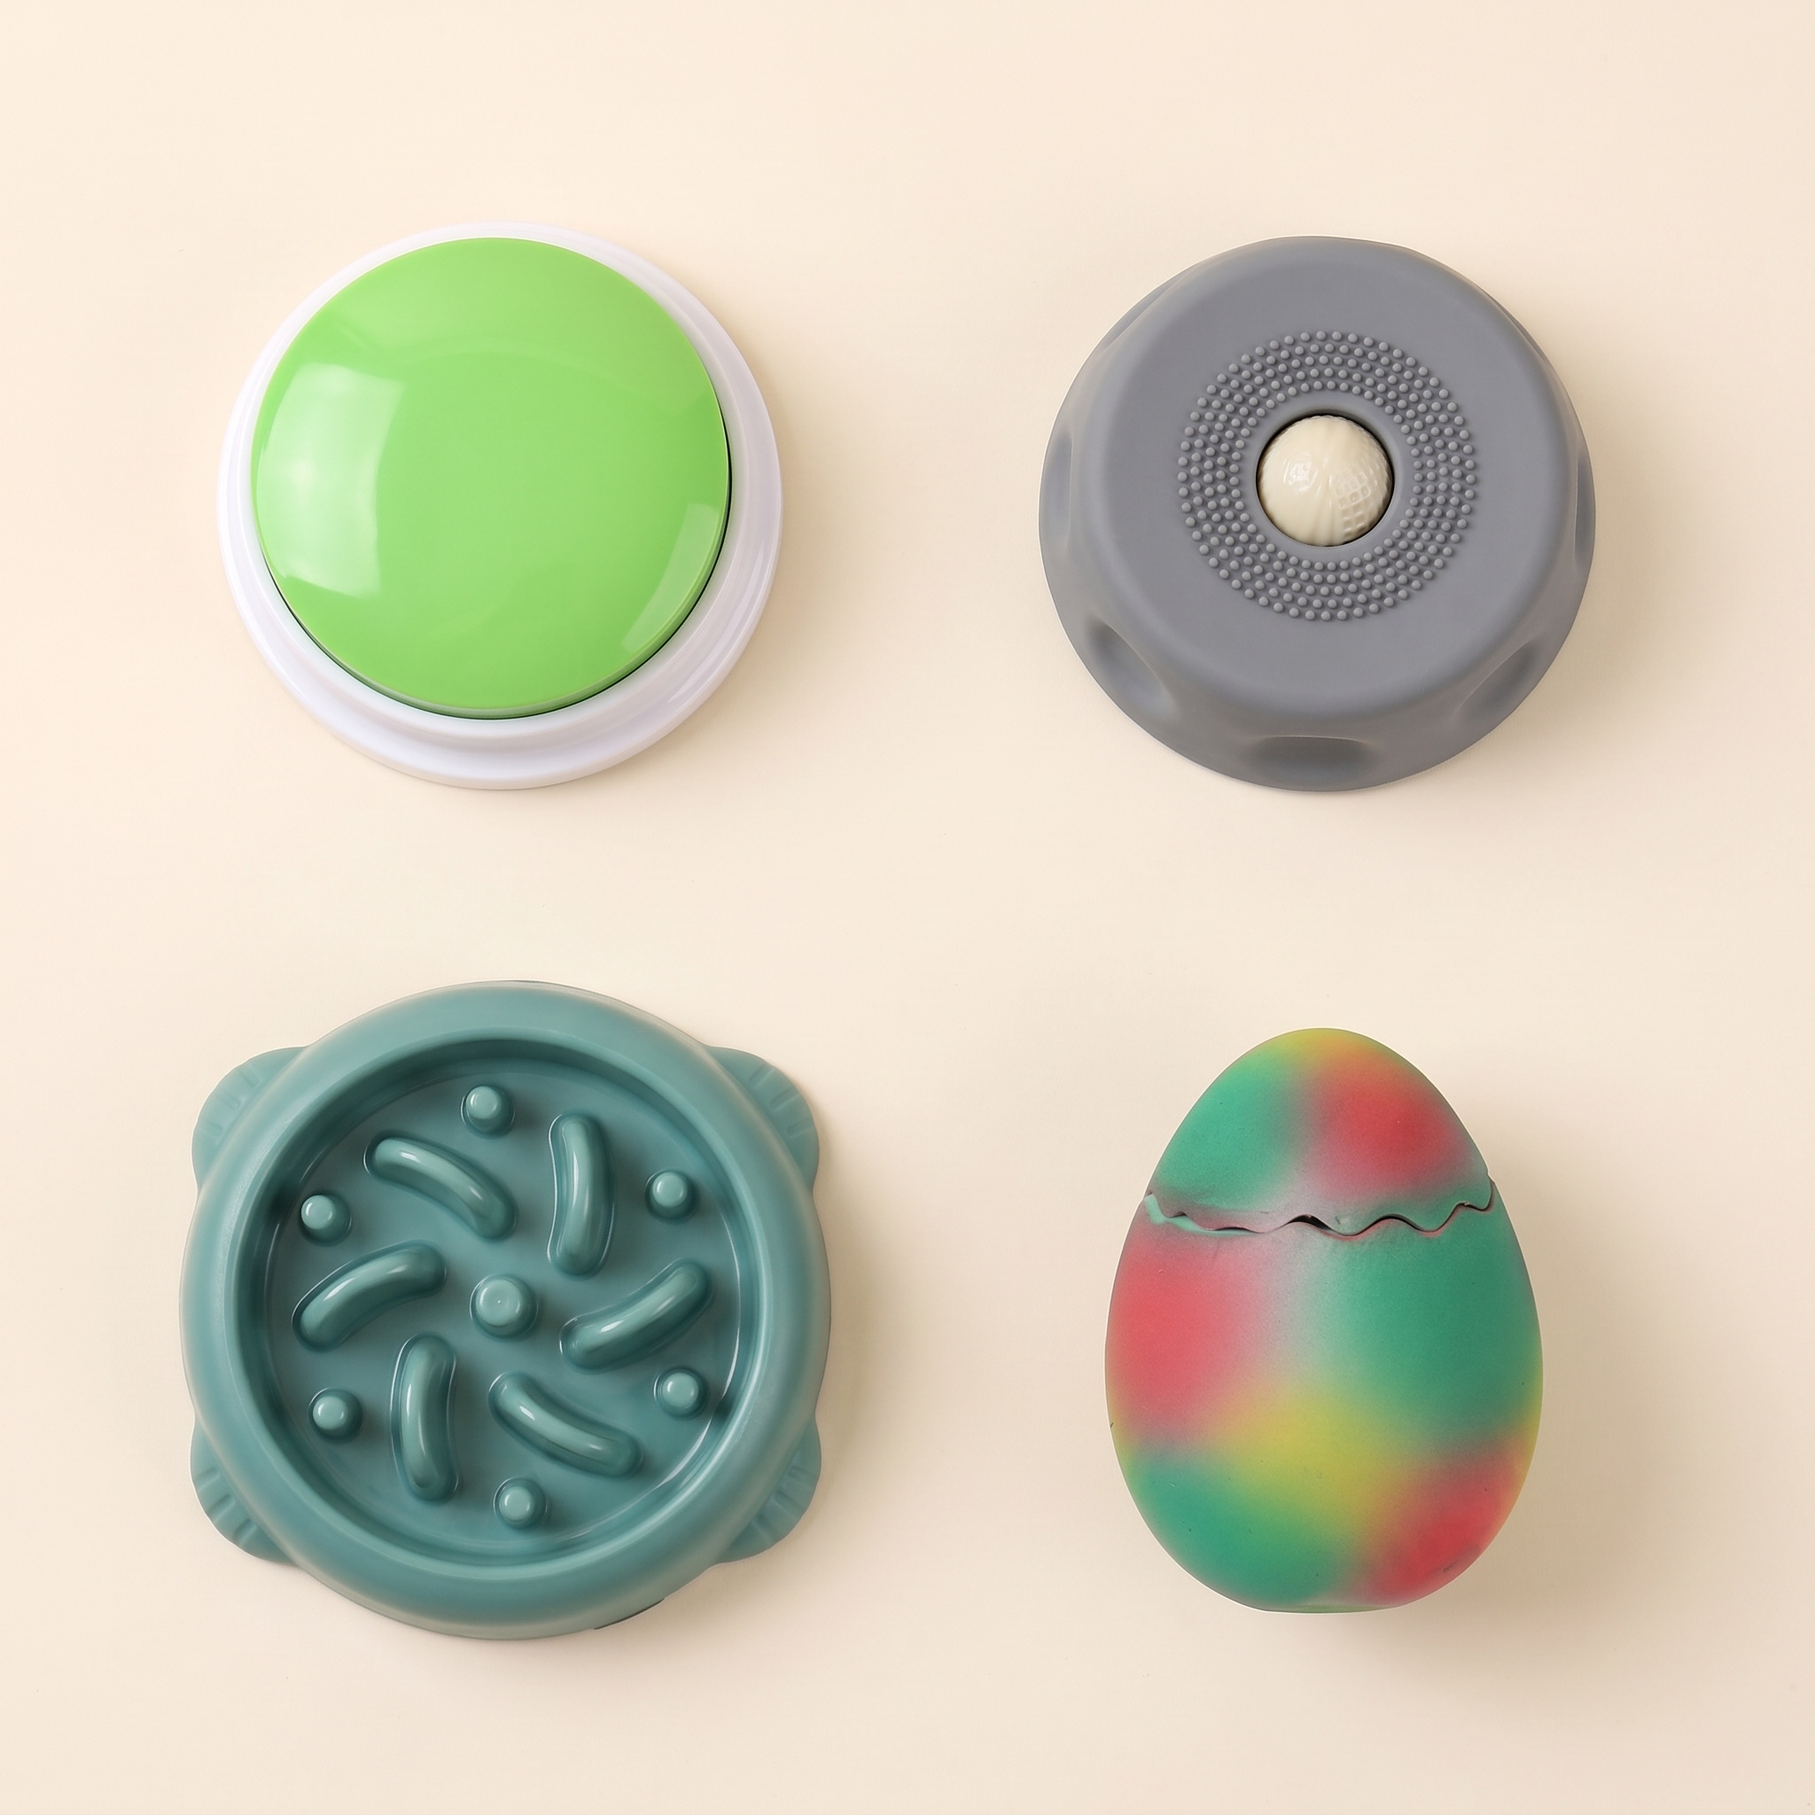
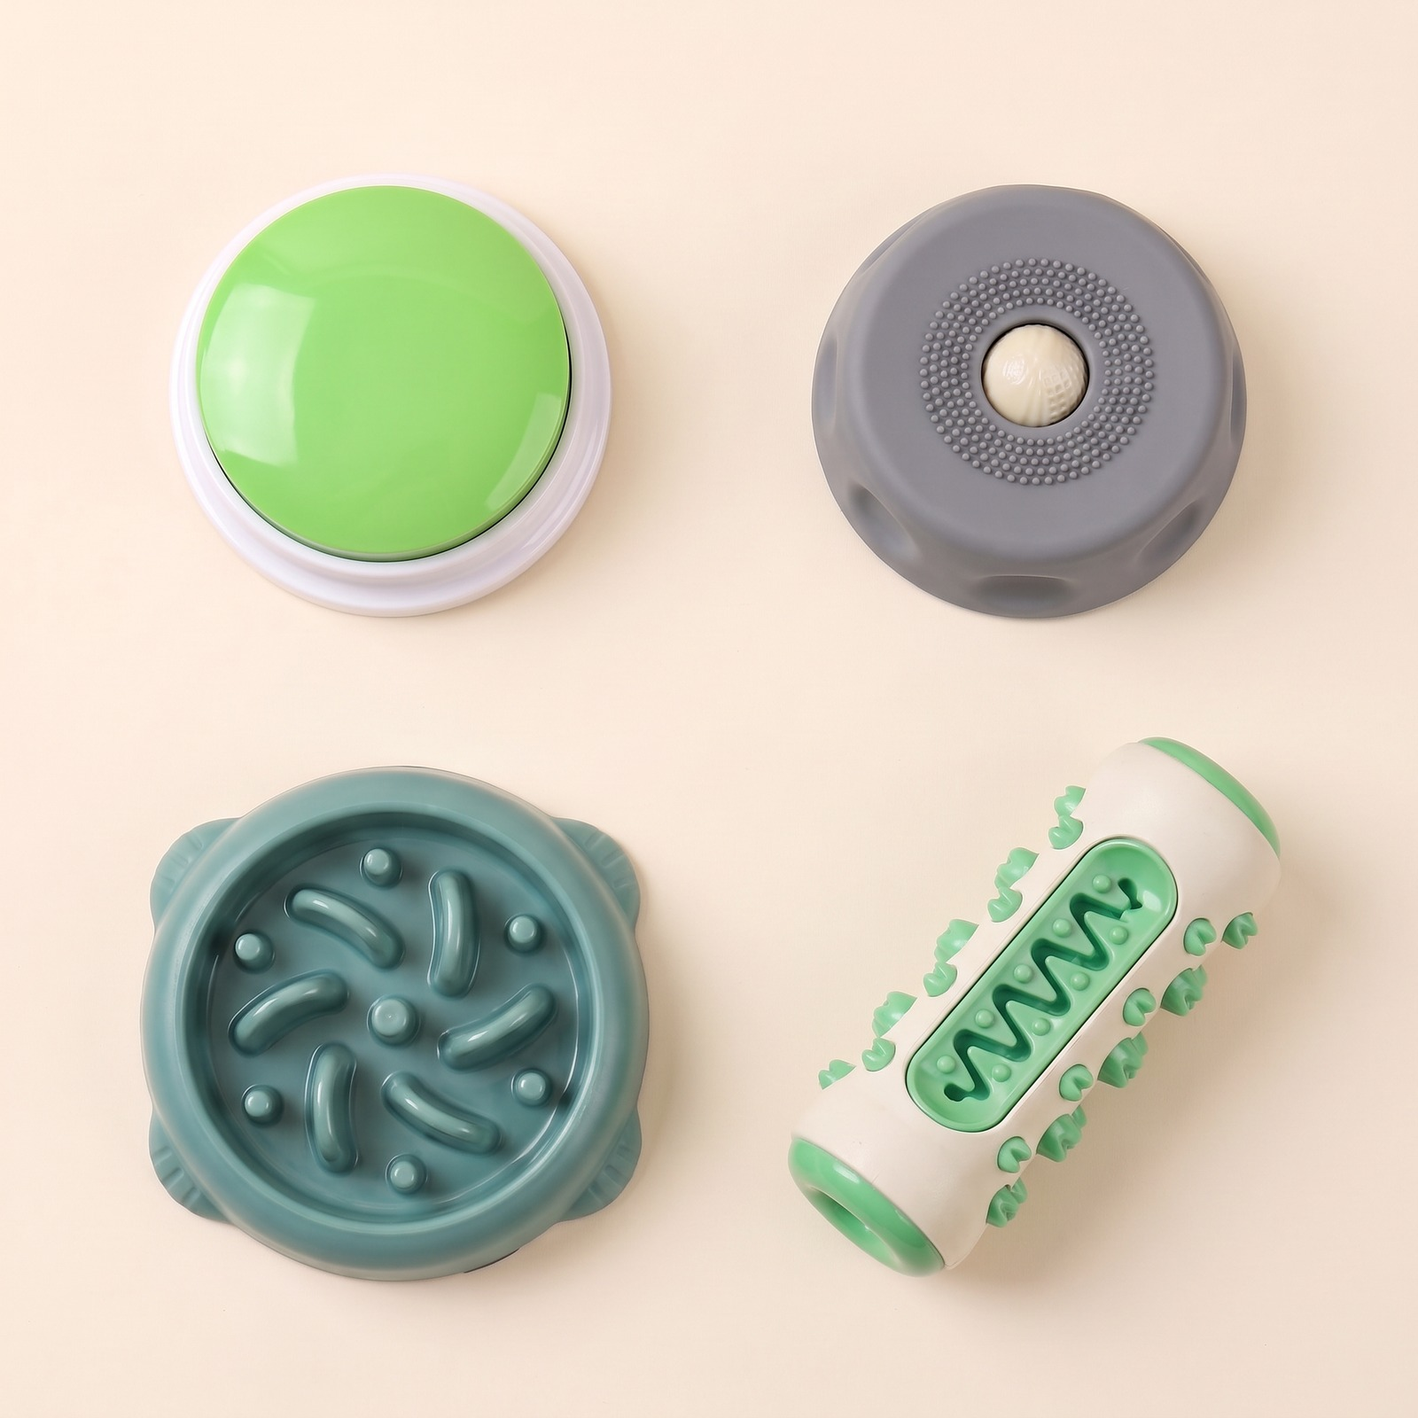
Reshoot both kits' art, and stop three audits asserting the old composition
The Toy Kit page still showed the Watermelon Rope Frisbee and the Enrichment Kit
still showed the Bouncy Egg Squeaker, in the flatlay cover, the component still
and all three colorway covers each. Eight images regenerated from the components'
own CJ photos as tagged references and eyeballed one by one against them before
upload. All 39 kit variants stay wired to their colorway cover.

product.bundleComponents is STALE after a rebuild: 50 minutes on it still named
both removed items while variant.productVariantComponents had switched. That
made audit_kits.py report the two kits that HAD been fixed as broken, and its
--apply would have written their contents metafields back to the old
composition. audit_kits.py, verify_kit_callout.py and link_kits_multi.py all
read the variant level now.

Two image traps, both hit rather than theorised. These scripts are idempotent by
FILENAME, so reshot art under an unchanged name is silently skipped and the old
image has to be deleted first. Doing that promotes a component still into
position 1, and apply_kit_covers.py replaced position 1 unconditionally: it
destroyed the Slow Feeder Bowl and Barnyard Squeaker stills. Both restored from
the component products, and the cover is now located by its alt text so the same
delete-then-apply sequence is safe.

audit_cj_shippability.py hardened after a near miss. One run returned empty rows
for seven SKUs at once, among them live kit components, and called them
[…]

Changed region(s): [[0.5312, 0.5, 0.9688, 0.9375]]

diff --git a/config/audit_kits.py b/config/audit_kits.py
@@ -14,7 +14,16 @@ because every automated check that looks at the bundle passes.
 There are FOUR independent descriptions of what is in a kit, and they can drift
 apart one at a time:
 
-  1. `bundleComponents`        the truth. What the customer is actually sold.
+  1. the variant components    the truth. What the customer is actually sold.
+                               Read from `variant.productVariantComponents`, NOT
+                               from `product.bundleComponents`. The product-level
+                               field does not track a composition change: 50
+                               minutes after the 2026-08-17 rebuild it still
+                               named the Watermelon Rope Frisbee and the Bouncy
+                               Egg Squeaker, so this audit reported the two kits
+                               that HAD been fixed as broken and would have
+                               "repaired" their metafields back to the old
+                               contents.
   2. `wagvive.components`      metafield driving the on-page contents section.
   3. the product images        cover grid plus one gallery shot per component.
   4. `bodyHtml`                the prose description naming each item.
@@ -77,11 +86,11 @@ query($q: String!) {
   products(first: 20, query: $q) {
     nodes {
       id title handle bodyHtml
-      variants(first: 100) { nodes { price compareAtPrice } }
+      variants(first: 100) { nodes { price compareAtPrice
+        productVariantComponents(first: 12) {
+          nodes { productVariant { product { id title status } } } } } }
       media(first: 30) { nodes { ... on MediaImage { alt } } }
       metafields(first: 25) { nodes { namespace key type value } }
-      bundleComponents(first: 12) {
-        nodes { componentProduct { id title status } } }
     }
   }
 }'''
@@ -104,6 +113,23 @@ mutation($mf: [MetafieldsSetInput!]!) {
 }'''
 
 
+def components_of(kit):
+    """Distinct component products of a kit, in first-seen order.
+
+    Walks every variant because that is where a bundle's composition actually
+    lives. Different colorways point at different VARIANTS of the same component
+    product, so de-duplicating by product id gives the set the kit is built from.
+    """
+    seen, out = set(), []
+    for v in kit['variants']['nodes']:
+        for c in v['productVariantComponents']['nodes']:
+            p = c['productVariant']['product']
+            if p['id'] not in seen:
+                seen.add(p['id'])
+                out.append(p)
+    return out
+
+
 def short(t):
     return t.replace('Wagvive ', '')
 
@@ -119,7 +145,7 @@ def main():
 
     for k in kits:
         title = k['title']
-        comps = [c['componentProduct'] for c in k['bundleComponents']['nodes']]
+        comps = components_of(k)
         comp_ids = [c['id'] for c in comps]
         comp_names = [short(c['title']) for c in comps]
         print(f"\n=== {title} ===")
@@ -274,8 +300,7 @@ def main():
                     )['data']['products']['nodes']
         bad = 0
         for k in fresh:
-            comp_ids = [c['componentProduct']['id']
-                        for c in k['bundleComponents']['nodes']]
+            comp_ids = [c['id'] for c in components_of(k)]
             mf = next((m for m in k['metafields']['nodes']
                        if m['namespace'] == 'wagvive'
                        and m['key'] == 'components'), None)

diff --git a/config/apply_kit_covers.py b/config/apply_kit_covers.py
@@ -18,9 +18,14 @@ The grid generator stays in the repo and stays correct: it is still the fallback
 for a newly built kit that has no art yet, and it is what regenerates a cover when
 a kit's composition changes before anyone has time to shoot a new flat-lay.
 
-Only the cover (position 1) is replaced. The per-component gallery shots below it
+Only the cover is replaced, and it is found by its ALT (`<title> - everything
+included`), never by being position 1. The per-component gallery shots below it
 are left exactly as they are, because those are what `audit_kits.py` reads to
-prove the gallery still matches the bundle.
+prove the gallery still matches the bundle. Trusting position 1 destroyed the
+Slow Feeder Bowl and Barnyard Squeaker stills on 2026-08-17: reshooting a cover
+means deleting the old one first (these scripts are idempotent by filename, so
+an unchanged name is otherwise skipped), which promotes a component still into
+position 1 for exactly as long as it takes this script to overwrite it.
 
     python config/apply_kit_covers.py            # report what would change
     python config/apply_kit_covers.py --apply
@@ -159,19 +164,26 @@ def main():
         k = kits.get(handle)
         if not k:
             continue
-        old = k['images'][0] if k['images'] else None
+        # The old cover is identified by ALT, not by being position 1. Taking
+        # whatever sits at position 1 destroyed two component stills on
+        # 2026-08-17: the previous cover had been deleted so the reshoot would
+        # re-upload, which promoted a component still into position 1, and this
+        # then consumed it. When no image carries the cover alt there is nothing
+        # to replace and the new cover is simply inserted.
+        alt = f"{k['title']} - everything included"
+        old = next((i for i in k['images'] if (i.get('alt') or '') == alt), None)
         blob, note = prep(path)
         print(f"\n{k['title']}")
         print(f"   {note}, {len(blob)//1024} KB")
         print(f"   gallery now: {len(k['images'])} image(s), "
-              f"replacing #{old['id'] if old else '(none)'}")
+              + (f"replacing #{old['id']}" if old
+                 else 'no existing cover, inserting'))
         if not apply:
             continue
 
         # Upload FIRST, delete the old cover second. The reverse order leaves a
         # kit with no cover at all if the upload fails, and a blank product card
         # is worse than a dated one.
-        alt = f"{k['title']} - everything included"
         new = api('POST', f"products/{k['id']}/images.json", {'image': {
             'attachment': base64.b64encode(blob).decode(),
             'filename': f'kit-flatlay-{handle}.jpg',
@@ -181,8 +193,10 @@ def main():
 
         fresh = api('GET', f"products/{k['id']}.json")['product']
         first = fresh['images'][0]
+        # Gallery size holds steady on a replace and grows by one on an insert.
+        want_n = len(k['images']) + (0 if old else 1)
         ok = (first['id'] == new['id']
-              and len(fresh['images']) == len(k['images'])
+              and len(fresh['images']) == want_n
               and (first.get('alt') or '') == alt)
         print(f"   {'OK ' if ok else 'BAD'} cover={first['id']} "
               f"gallery={len(fresh['images'])} alt={first.get('alt')!r}")

diff --git a/config/audit_cj_shippability.py b/config/audit_cj_shippability.py
@@ -55,6 +55,30 @@ def api(path):
     return out
 
 
+def stock_rows(sku, tries=3):
+    """CJ's rows for a SKU, retried, because an empty answer is usually a lie.
+
+    A single empty/failed response is NOT evidence that CJ cannot ship. On
+    2026-08-17 one run came back empty for seven SKUs at once, including live kit
+    components that had synced real quantities minutes earlier; all seven
+    returned a populated stock record on every retry. Acting on that would have
+    zeroed good stock and taken two kits offline, which is the opposite of what
+    this audit is for.
+
+    Returns (rows, ok). `ok` is False when every attempt failed or came back
+    empty, and the caller reports UNKNOWN rather than accusing the SKU.
+    """
+    for attempt in range(tries):
+        try:
+            rows = cj_api.call('/product/stock/queryBySku', {'sku': sku}).get('data')
+            if isinstance(rows, list) and rows:
+                return rows, True
+        except Exception:
+            pass
+        time.sleep(1.5 * (attempt + 1))
+    return [], False
+
+
 def classify(rows):
     """(shippable_qty, factory_qty, cj_on_hand, verdict) for one SKU's rows."""
     if not isinstance(rows, list) or not rows:
@@ -91,9 +115,10 @@ def main():
             if not sku:
                 continue
             checked += 1
-            rows = cj_api.call('/product/stock/queryBySku',
-                               {'sku': sku}).get('data')
+            rows, reachable = stock_rows(sku)
             ship, factory, hand, verdict = classify(rows)
+            if not reachable:
+                verdict = 'UNKNOWN (CJ did not answer)'
             shopify_qty = v['inventory_quantity']
             entry = {'product': p['title'], 'variant': v['title'], 'sku': sku,
                      'shopify': shopify_qty, 'shippable': ship,
@@ -127,6 +152,16 @@ def main():
     # unshippable SKU regardless of its Shopify quantity would mean this audit
     # could never go green while those products exist, and an audit that always
     # fails is one that stops being read.
+    # An UNKNOWN is a gap in evidence, not a finding. It is surfaced so the run
+    # is not silently partial, but it never zeroes anything.
+    unknown = [e for e in bad if e['verdict'].startswith('UNKNOWN')]
+    bad = [e for e in bad if not e['verdict'].startswith('UNKNOWN')]
+    if unknown:
+        print(f'\n{len(unknown)} variant(s) CJ would not answer for after '
+              f'retries. Not treated as unshippable:')
+        for e in unknown:
+            print(f"  ? {e['product']} / {e['variant']}  {e['sku']}")
+
     exposed = [e for e in bad if e['shopify'] > 0]
     contained = [e for e in bad if e['shopify'] <= 0]
 

diff --git a/docs/HANDOFF.md b/docs/HANDOFF.md
@@ -4,7 +4,7 @@
 > (plus commits and pushes) before the user switches devices or ends a work
 > session. This file IS the conversation continuity between devices.
 
-**Last updated:** 2026-08-08, home PC (colorway covers finished; wipes replacement launched; CJ pairing still open)
+**Last updated:** 2026-08-17, home PC (order #1002 root-caused: CJ's advertised stock is not shippable stock; Toy and Enrichment kits rebuilt, repriced and reshot)
 
 ---
 
@@ -141,6 +141,72 @@ into Shopify, repairs inventory locations, and checks margins **every 6 hours**.
 A failed run emails the owner — silence means healthy.
 
 ## What just happened (most recent work)
+
+- **ORDER #1002 ROOT-CAUSED, AND THE TWO AFFECTED KITS REBUILT (2026-08-17).**
+  CJ reported the Bouncy Egg Squeaker out of stock after it sold inside the
+  Enrichment Kit (CJ order DP2608121816000646700).
+
+  **Cause.** CJ advertises `totalInventoryNum`/`factoryInventoryNum`, which is a
+  supplier claim, not stock. `sync_inventory.cj_stock()` fell back to that number
+  when the detailed rows were empty, so Shopify was told 44,838 units of an item
+  CJ could not ship. The discriminator is **`stock: null` vs a populated `stock`
+  array carrying a `stockId`**. It is NOT `cjInventoryNum`: that reads 0 for the
+  entire catalogue (216 units across 145 variants) because CJ warehouses almost
+  nothing and factory-sources on demand, so it is 0 for the nine SKUs that
+  shipped fine too. Every earlier audit passed because they all asked whether
+  Shopify MATCHED CJ's number, never whether that number meant shippable.
+
+  **Fixed.** `cj_stock()` returns 0 when no row carries a stock record. New
+  `config/audit_cj_shippability.py` sweeps the catalogue for the condition; it
+  found **10 variants across 5 products**, now all held at 0.
+
+  **This fix must stay committed.** The 6-hourly `scheduled-ops.yml` runs
+  `sync_inventory.py --apply` from the COMMITTED repo. While the fix sat
+  uncommitted the job put all 10 phantom quantities straight back.
+
+  **Kit fallout.** Two kits contained an unshippable component and were rebuilt:
+
+  | Kit | Out | In | Price | Compare-at |
+  |---|---|---|---|---|
+  | Toy Kit | Watermelon Rope Frisbee | Woodland Rope-Limb Plush | $49.00 → **$50.00** | $60.95 → **$62.95** |
+  | Dog Enrichment Kit | Bouncy Egg Squeaker | Dental Chew Stick | $46.00 → **$50.00** | $57.96 → **$62.96** |
+
+  Compare-at is the honest sum of the components at their own live retail and
+  comes out identical for every colorway, so the saving does not depend on which
+  colour is picked. All 39 kit variants are buyable; margins clear their floors.
+
+  Also corrected: the Toy Kit claimed "Cheaper than picking any four separately"
+  when the four cheapest components total $49.96 against a $50.00 kit. It now
+  states the true saving, $62.95 for the five versus $50.00.
+
+  **`product.bundleComponents` IS STALE AFTER A REBUILD.** 50 minutes after the
+  rebuild it still named both removed items while
+  `variant.productVariantComponents` had switched correctly. Three things
+  trusted it and now read the variant level: `audit_kits.py` (it reported the two
+  FIXED kits as broken and would have "repaired" their metafields back to the old
+  contents), `verify_kit_callout.py`, and `link_kits_multi.py`. The last also
+  never CLEARED `custom.kits` from a product that left a kit, so the frisbee and
+  egg kept advertising kits they were no longer in.
+
+  **Two image traps, both hit.** `apply_kit_covers.py` and
+  `apply_colorway_covers.py` are idempotent BY FILENAME, so reshot art under an
+  unchanged name is skipped and the old covers must be deleted first. But
+  `apply_kit_covers.py` then replaced whatever sat at **position 1**, which after
+  that delete was a component still: it destroyed the Slow Feeder Bowl and
+  Barnyard Squeaker shots. Both restored; the script now finds the cover by ALT.
+
+  **`audit_cj_shippability.py` was hardened after a near miss.** One run returned
+  empty rows for seven SKUs at once, including live kit components, and reported
+  them unshippable. All seven returned real stock records on every retry: it was
+  transient CJ flakiness. Acting on it would have zeroed good stock and taken
+  kits offline. Empty answers are now retried and, if still empty, reported as
+  UNKNOWN rather than as a finding.
+
+  **Open decision for the owner.** Five products are permanently unshippable and
+  now sit at 0, showing as sold out: Bouncy Egg Squeaker, Watermelon Rope
+  Frisbee, Crinkle Plush Buddy, Dental Duck Chew Toy, Rope-Limb Puppy Plush.
+  They still appear in collections as sold-out cards. Archive them (as
+  `remove_wipes.py` did) or re-source replacements.
 
 - **INVENTORY AUDITED END TO END, INCLUDING KITS (2026-08-11).** Answering
   "is Shopify still tracking everything and matching CJ?". Verdict: yes, with

diff --git a/CLAUDE.md b/CLAUDE.md
@@ -90,6 +90,17 @@ Rules:
   is report-only** — a silent no-op that has been mistaken for success.
 - CJ's webhook writes to its own location and may recreate the double count at
   any time. That is why the scheduled job re-runs `fix_locations.py`.
+- **CJ's advertised stock is not shippable stock.** `totalInventoryNum` and
+  `factoryInventoryNum` are a supplier CLAIM. What proves CJ can ship is a
+  populated **`stock` array carrying a `stockId`**; `stock: null` means it
+  cannot, whatever the advertised figure says. Do not use `cjInventoryNum` as
+  the test: it is 0 for the entire catalogue, because CJ warehouses almost
+  nothing and factory-sources on demand. Taking the advertised number literally
+  is what made order #1002 ship short (Bouncy Egg Squeaker, 44,838 advertised,
+  no stock record). `config/audit_cj_shippability.py` sweeps for it.
+  **An EMPTY answer from CJ is not evidence of anything** — retry it. One run
+  came back empty for seven healthy SKUs at once; acting on that would have
+  zeroed live kit components.
 - **Never read CJ stock by hand. Call `sync_inventory.cj_stock(sku)`.** CJ returns
   TWO different row shapes and the right answer depends on which you got. Some
   SKUs carry nested per-warehouse entries, where the quantity is
@@ -128,6 +139,15 @@ Rules:
   tracebacks.
 - Collection product order needs the GraphQL `collectionReorderProducts`; the
   REST collect approach 422s.
+- **`product.bundleComponents` is STALE after a kit rebuild** and stayed wrong
+  for at least 50 minutes, naming components the kit no longer had. A bundle's
+  real composition is `variant.productVariantComponents`. Anything that reads
+  the product-level field will assert the OLD contents and may write them back.
+- **Kit art scripts are idempotent BY FILENAME**, so reshot art under the same
+  name is skipped: delete the old image first. But then do NOT let anything
+  replace "position 1" blindly — with the cover gone, position 1 is a component
+  still, and `apply_kit_covers.py` ate two of them that way. It now matches the
+  cover by alt text.
 - Auto-managed policies reject `shopPolicyUpdate`; disable with
   `privacyFeaturesDisable(featuresToDisable:[PRIVACY_POLICY])` first.
 - Shopify's CDN serves **mixed stale/fresh renders for minutes** after a theme or
